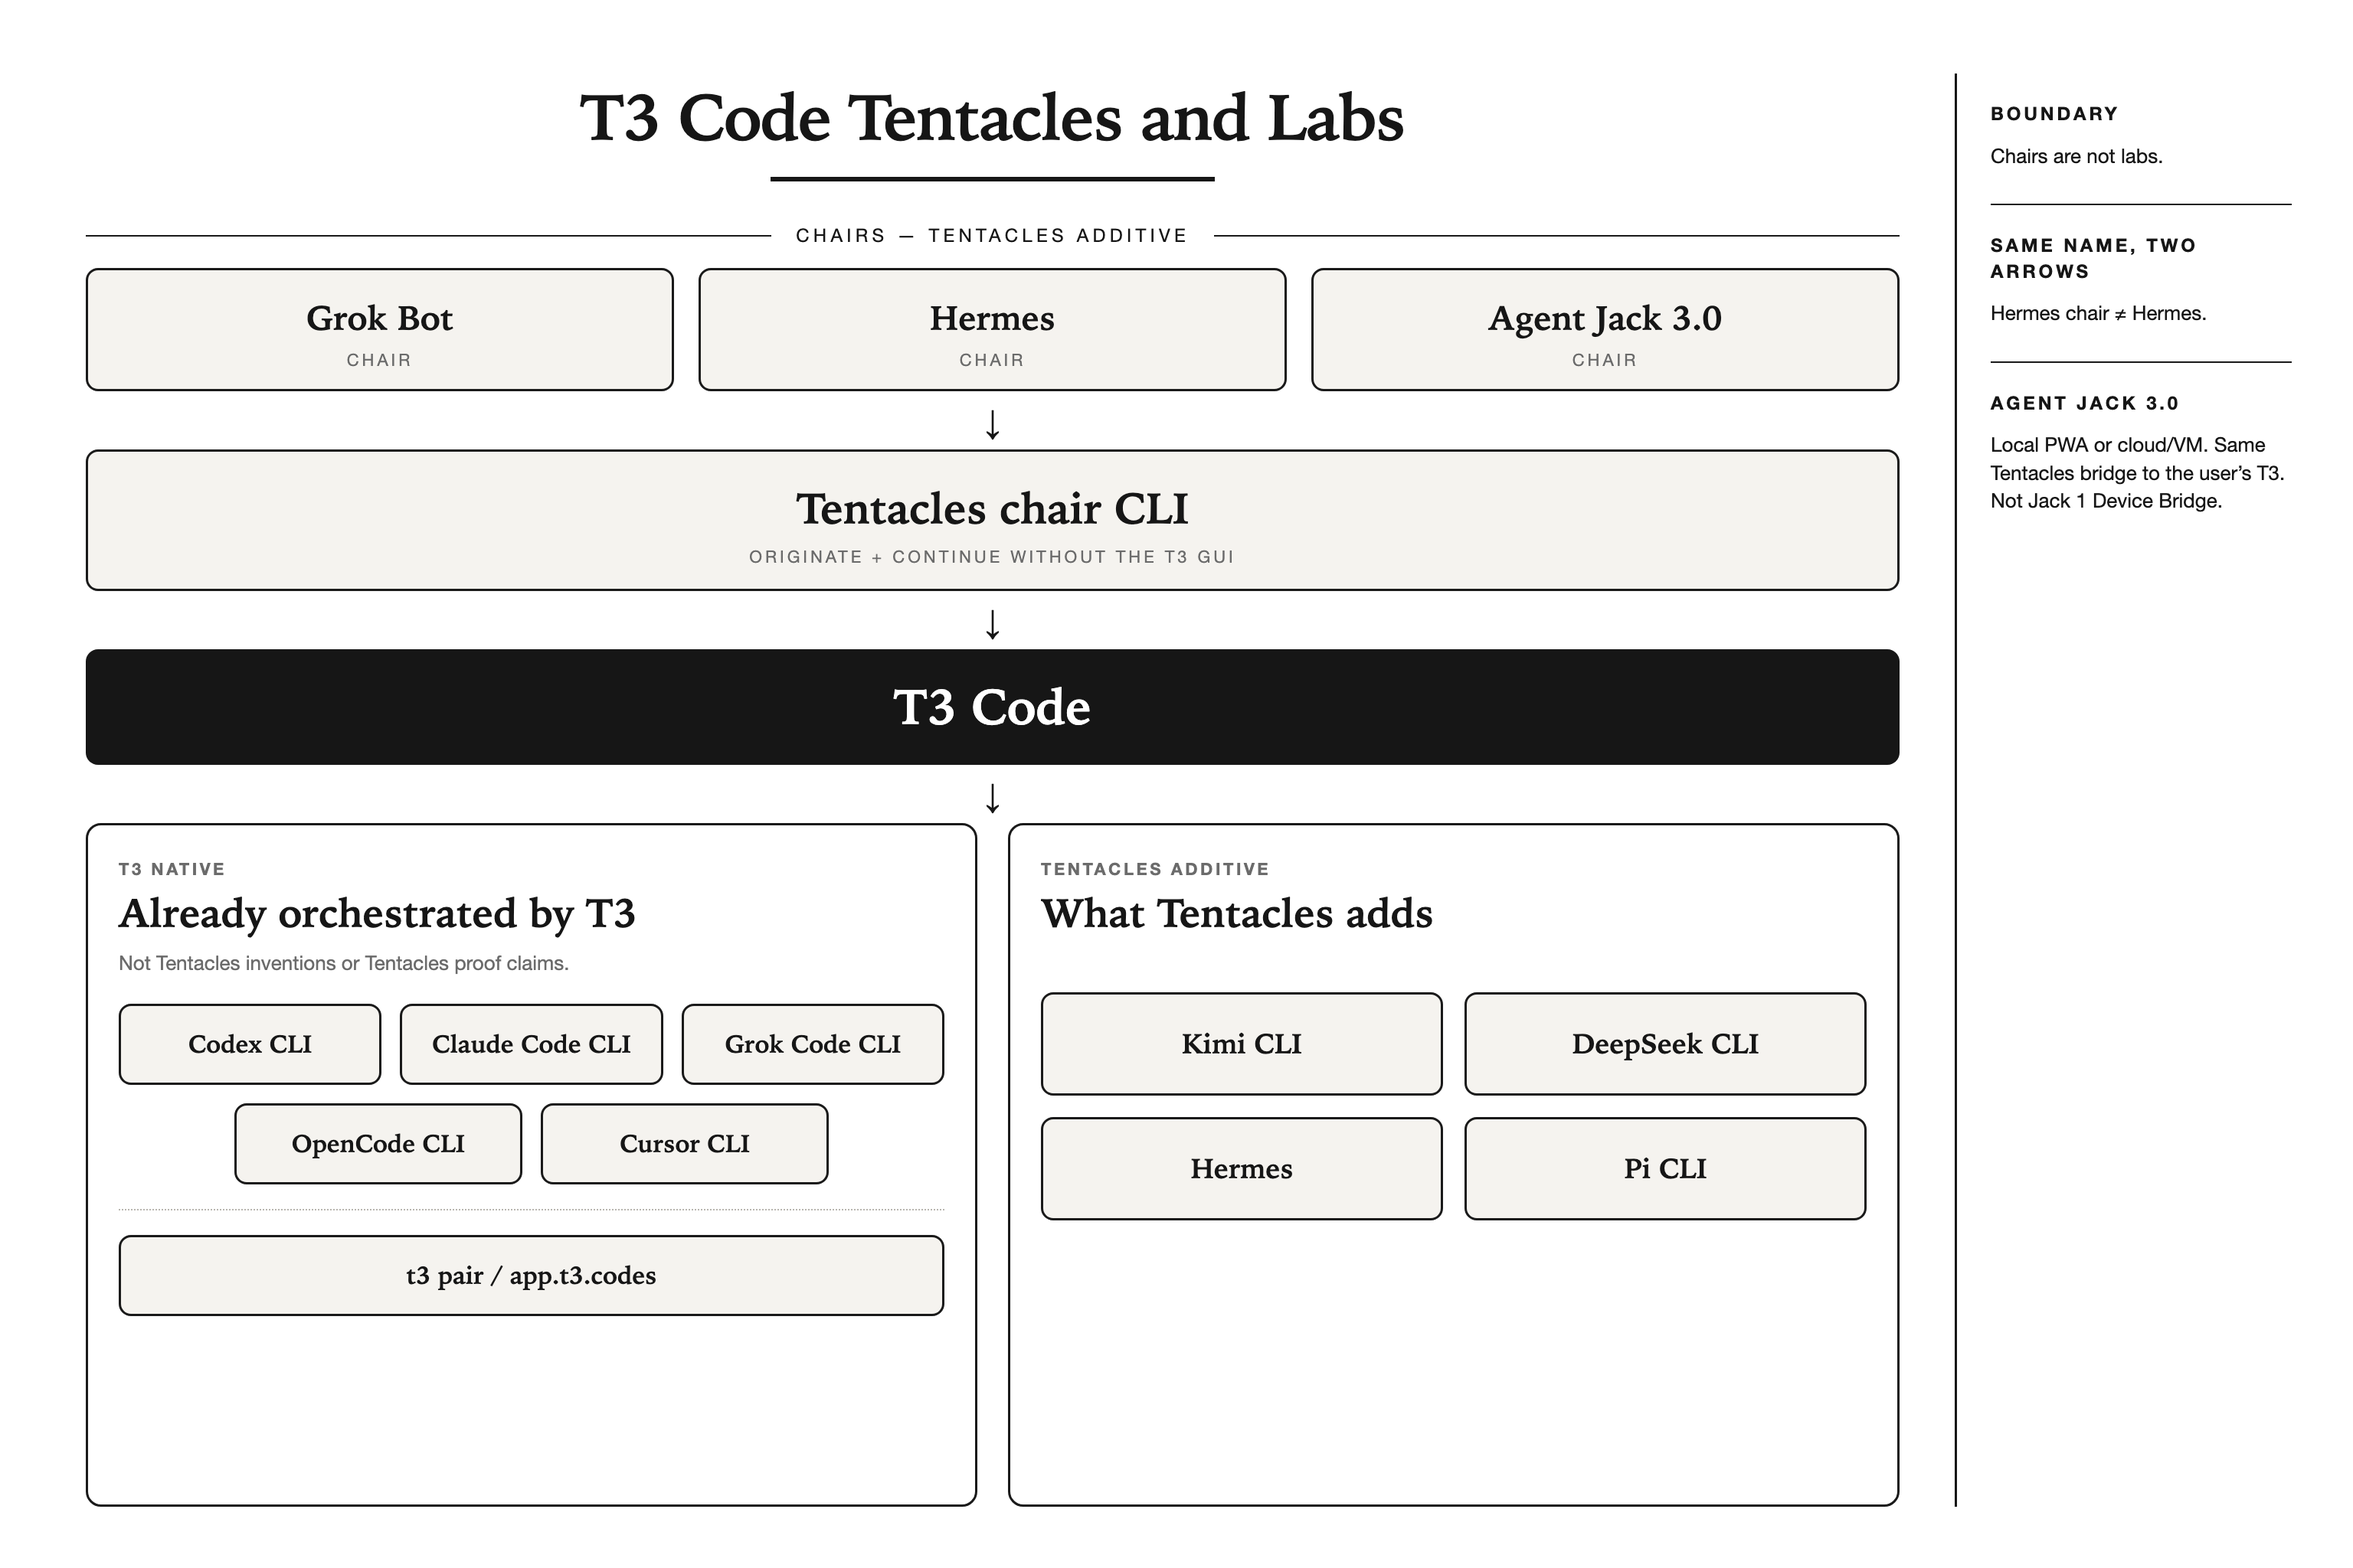
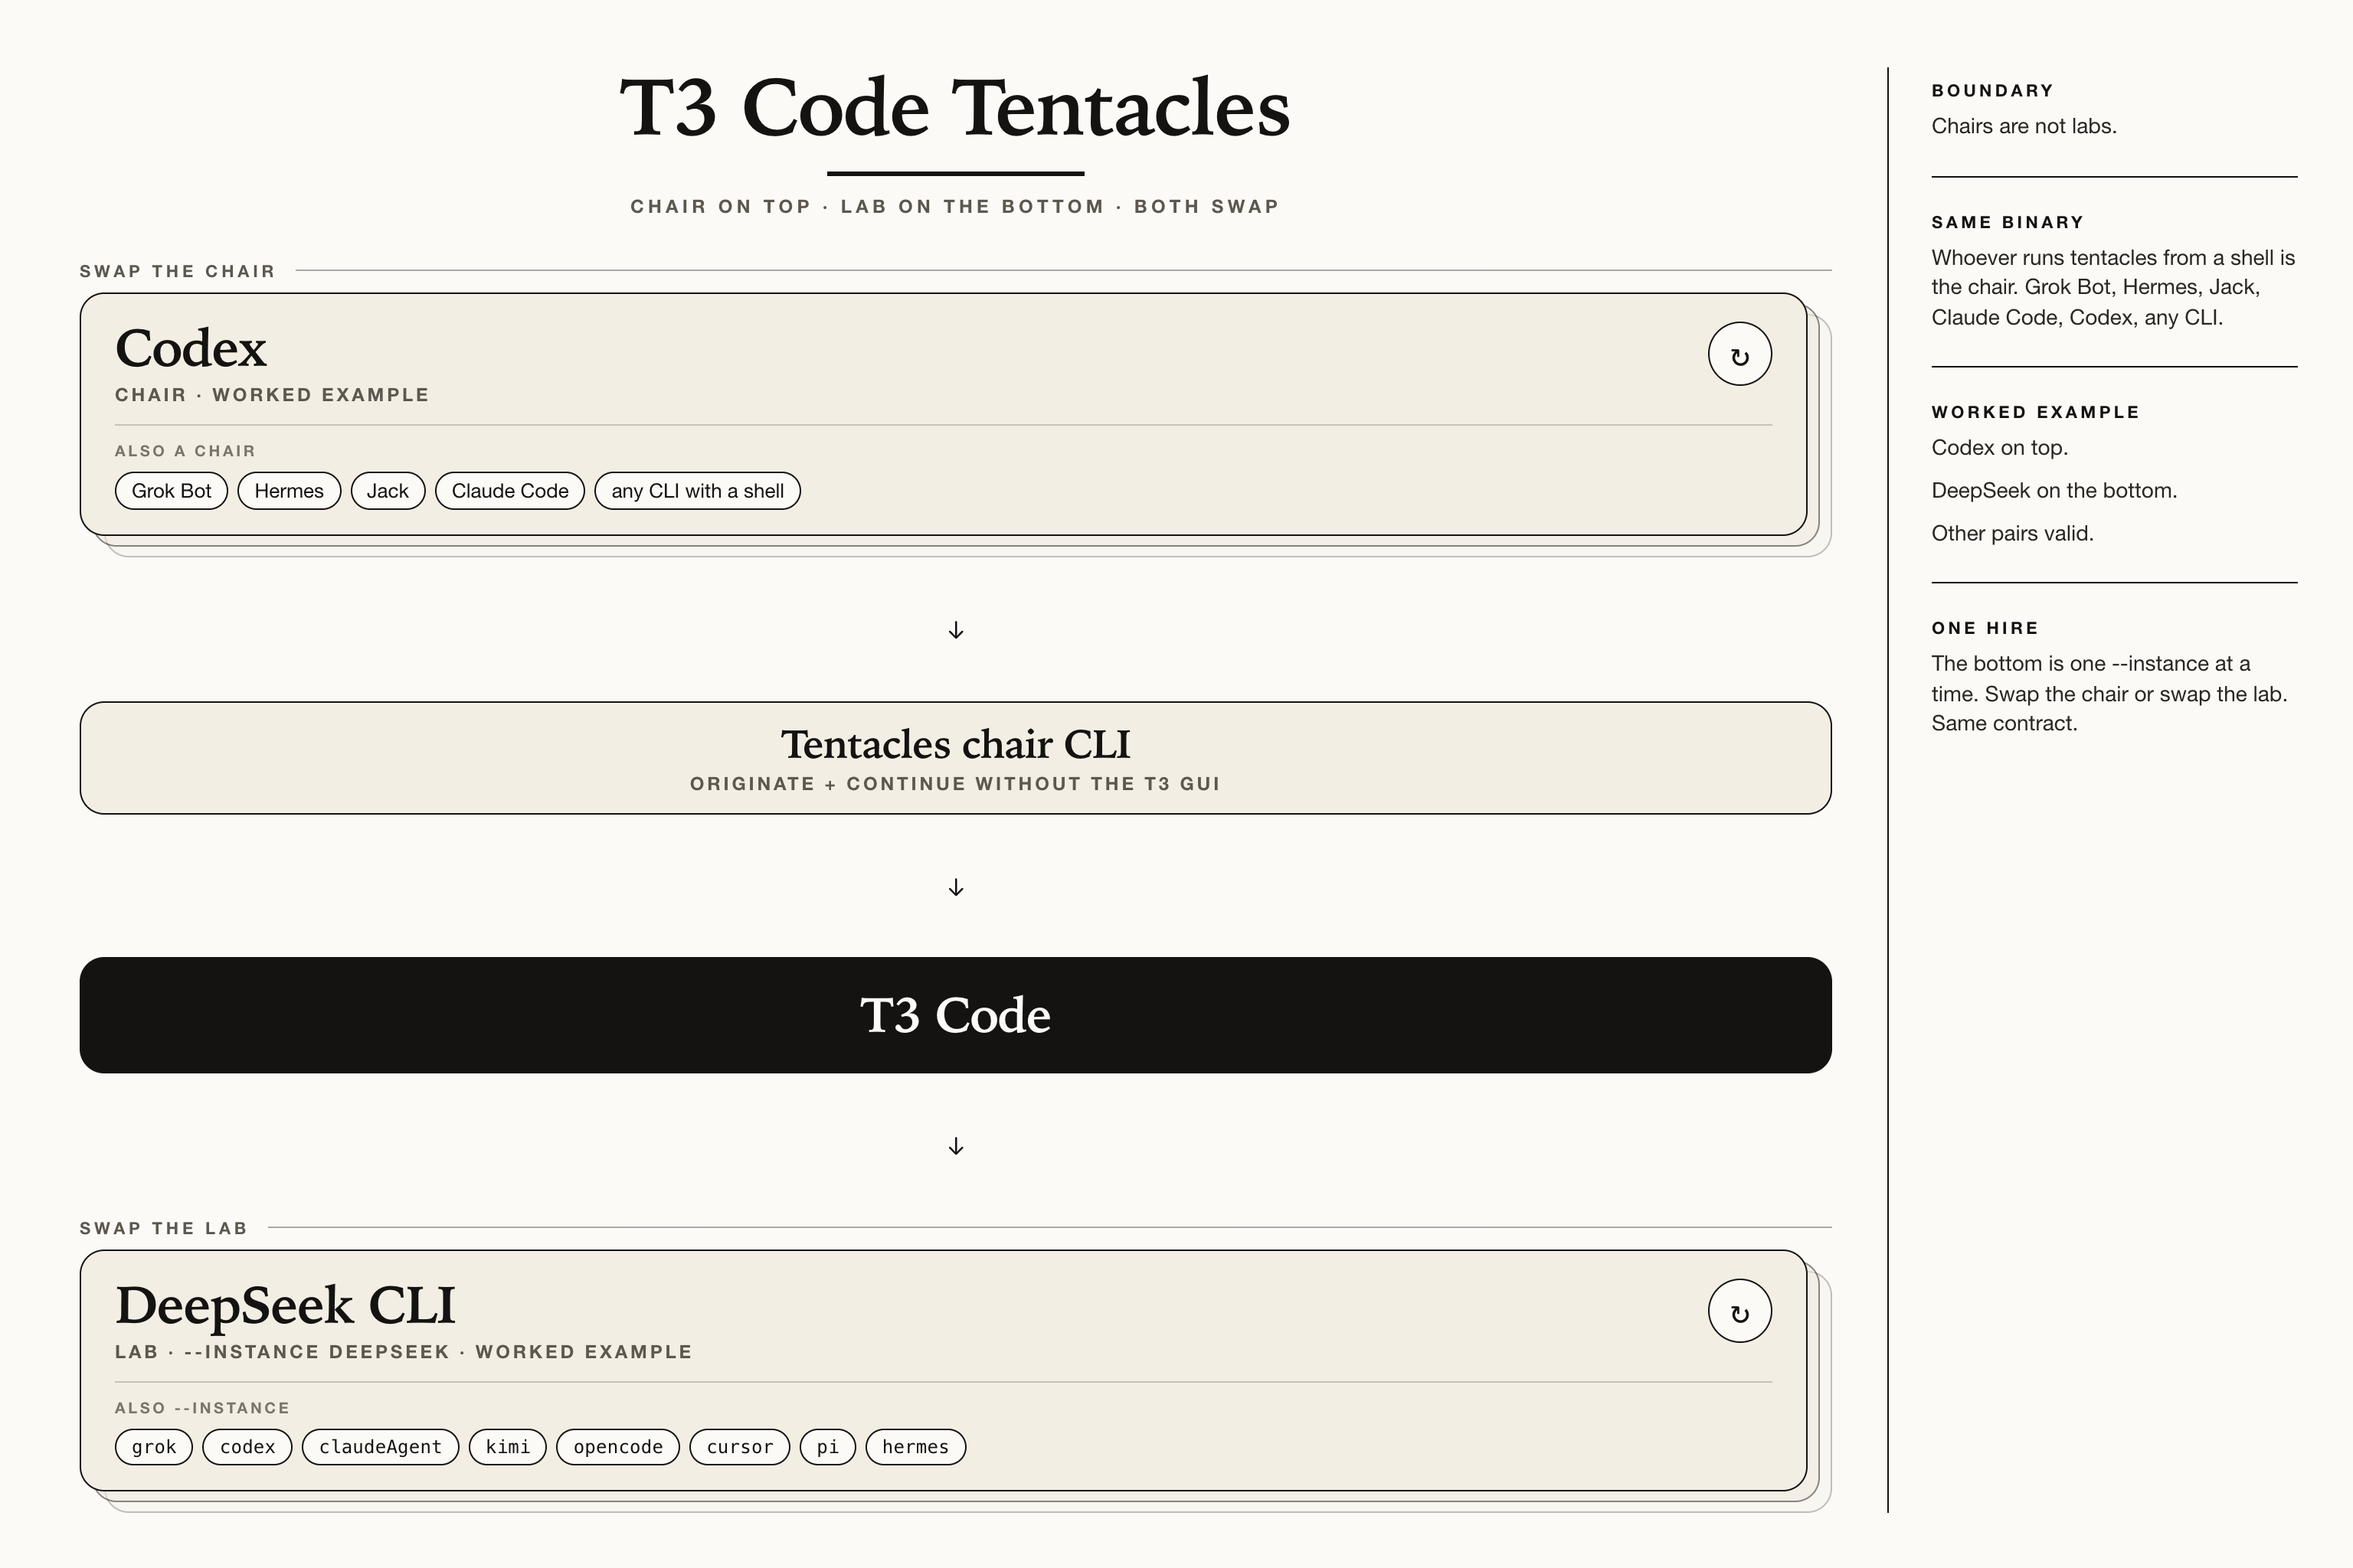
docs: redraw Tentacles poster as swappable chair and lab
KRA-5705. Codex sits the chair; DeepSeek is the hired --instance.
Other chairs and labs swap. One README alt line points at the new poster.

diff --git a/README.md b/README.md
@@ -101,7 +101,7 @@ flowchart TB
     T3 --> Additive["Tentacles additive: Kimi CLI, DeepSeek CLI, Hermes, Pi CLI"]
 ```
 
-![T3-native capabilities and Tentacles-additive chair and lab paths](docs/tentacles-vertical.png)
+![Swappable Tentacles chair and bottom lab instance paths](docs/tentacles-vertical.png)
 
 Remote clients use Tentacles only after the optional outbound pairing path has
 been installed and configured. Tentacles does not define or version those
